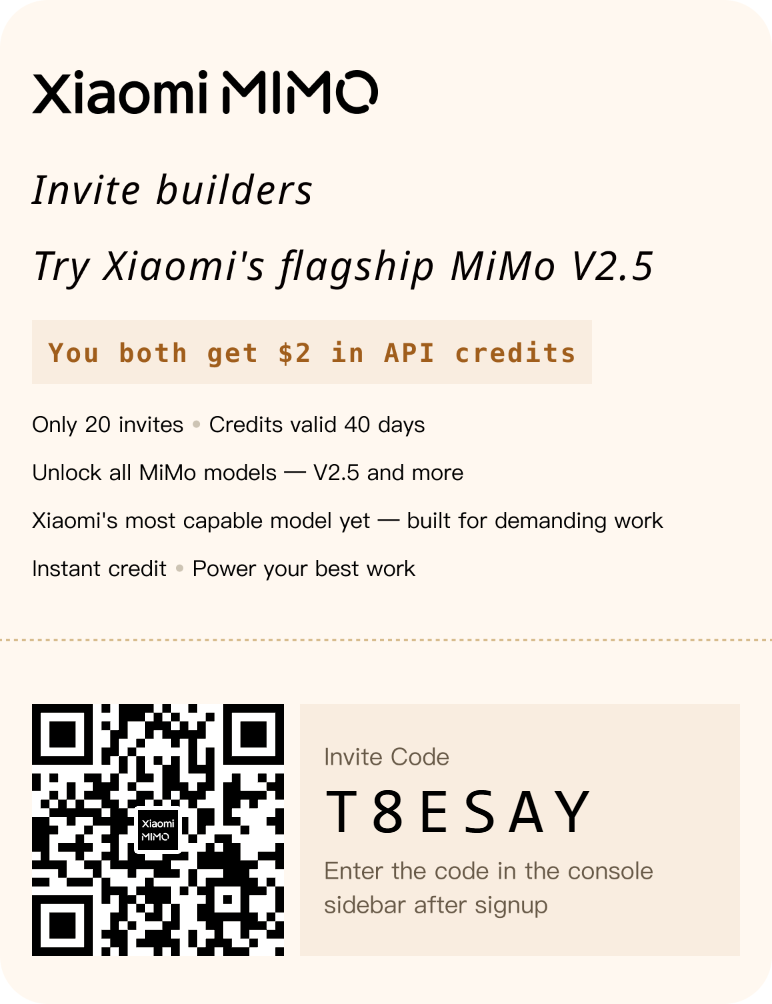
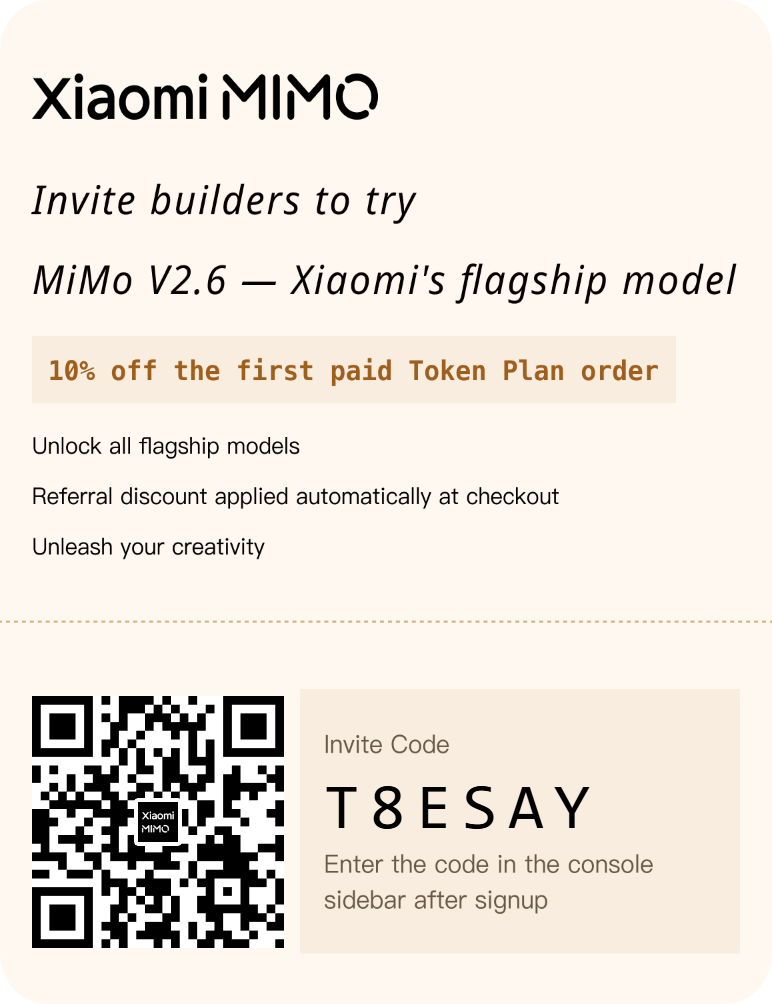
docs(referral): refresh referral terms and add LLM Gateway
Update Synthetic, Xiaomi MiMo, OrcaRouter and Alibaba Cloud to their current terms, drop MiniMax and ModelArk, remove the expired Z.ai promo, and add LLM Gateway.

diff --git a/content/page/referral/index.en.md b/content/page/referral/index.en.md
@@ -42,18 +42,17 @@ Sign up through my referral link: https://www.orcarouter.ai/ref/ref_3976ba42abf3
 
 Referral code: `ref_3976ba42abf37dc55c1d`
 
-**TL;DR — current offers checked Oct 2, 2026 (UTC+7):**
+**TL;DR — current offers checked Nov 20, 2026 (UTC+7):**
 
-- **Tencent Hy4 Preview:** Get a 100% deposit match, up to $200, on top-ups of $20 or more when you join before **Oct 29**. Credit is usable on Hy4 Preview only.
-- **GPT-6 Astra:** Get a 100% deposit match, up to $100, on top-ups of $20 or more before **Oct 5**; a payment card is required and the offer is waitlisted.
+- **Always-free models:** DeepSeek V4.1 Flash, DeepSeek V4 Flash, GLM-5.3-Flash, Tencent Hy4 Preview, Tencent Hy3, plus the `orcarouter/free` router. They need a linked GitHub account with some history, or any paid purchase.
+- **DeepSeek V4.1 Flash:** Get a 100% deposit match, with no cap listed, on top-ups of $20 or more when you enroll by **Dec 18**. Match credit expires Jan 17, 2027.
+- **Fable 5.2:** Get a 100% deposit match, up to about $200, on top-ups of $10 or more when you enroll by **Dec 11**. Match credit expires Jan 10, 2027.
 
 Offers can change quickly, so check the [live offers page](https://www.orcarouter.ai/offers) before claiming.
 
 ### [Z.ai](https://z.ai/subscribe?ic=PLKIAYEIPW)
 
 🚀 You've been invited to join the GLM Coding Plan! Enjoy full support for Claude Code, Cline, and 20+ top coding tools — starting at just $18/month. Subscribe now and grab the limited-time deal! Link： https://z.ai/subscribe?ic=PLKIAYEIPW
-
-Until **Oct 7, 2026**, all-day usage is billed at the off-peak rate, and GLM-5.3-Flash is unlimited from 23:00 to 09:00.
 
 ### [Kimi](https://kimi-bot.com/activities/viral-referral/share?scenario=invite&from=share_poster&invitation_code=C8CJ6F)
 
@@ -64,26 +63,11 @@ Boost me and we both win! Sign up or subscribe to Kimi (Moonshot AI) and we each
 
 Invitation code: `C8CJ6F`
 
-### [MiniMax](https://platform.minimax.io/subscribe/token-plan?code=CAQ5sxHAq6&source=link)
-
-🎁 MiniMax Token Plan Referral Program — Token Plan starts at $20/month (Plus), with Max at $50 and Ultra at $120.
-
-**How it works:**
-
-- **For Referred Users:** Use a referral link to get **10% off** any Token Plan subscription or upgrade, and join the MiniMax Developer Community as a Builder.
-- **For Referrers:** Earn **10% back in API credits** for every successful paid referral, valid for 90 days and usable across all MiniMax models. [View details](https://platform.minimax.io/docs/token-plan/faq)
-
-[![minimax](minimax.png)](https://platform.minimax.io/subscribe/token-plan?code=CAQ5sxHAq6&source=link)
-
-Referral code: `CAQ5sxHAq6`
-
-Link: https://platform.minimax.io/subscribe/token-plan?code=CAQ5sxHAq6&source=link
-
 ### [Synthetic](https://synthetic.new/?referral=CNBFyw28zF0dZoj)
 
 Thanks for helping us grow!
 
-Invite your friends to Synthetic and both of you will receive $10.00 off the first month when they subscribe! Subscriptions start at $30/month, with usage-based pricing as an alternative.
+Invite your friends to Synthetic and when they subscribe, both of you will receive **$10.00** in subscription credit if they choose the Standard plan or higher, or **$3.00** if they choose the Go plan. This discount won't stack with other offers.
 
 Share Your Referral Link
 
@@ -101,38 +85,30 @@ Link: https://portal.nousresearch.com/r/tien-nguyen-minh
 
 ### [Xiaomi MiMo](https://platform.xiaomimimo.com?ref=T8ESAY)
 
-Xiaomi MiMo Open Platform — running Xiaomi's flagship MiMo V2.6 Pro and the rest of the lineup. Sign up with my code and you'll instantly get **$2** in API credits, plus **10% off** your first paid Token Plan order.
+Invite builders to try MiMo V2.6, Xiaomi's flagship model.
 
-Enter the code within 3 days of signing up, at the bottom-left of the console. Credits valid **40 days**.
+- **Friend:** signs up and gets **10% off** their first paid Token Plan order, applied automatically at checkout.
+- **Me:** earns 10% back in credits on that order, valid for 40 days.
 
-Referral code: `T8ESAY`
+Auto-bind via the link, or enter the code in the console sidebar after signup.
+
+Invite code: `T8ESAY`
 
 Link: https://platform.xiaomimimo.com?ref=T8ESAY
 
 [![mimo](mimo.png)](https://platform.xiaomimimo.com?ref=T8ESAY)
 
-### [ModelArk](https://www.byteplus.com/activity/codingplan?ac=MMAUCIS9NT1S&rc=2739UWRE)
+### [LLM Gateway](https://llmgateway.io/?ref=jdsmz02j3nmaB9BqziZt)
 
-BytePlus ModelArk Coding Plan bundles Dola-Seed-2.0-pro, GLM-5.3-Flash, and the DeepSeek V4 series for Claude Code, Cursor, Cline, and other coding tools. Subscribe through my link to get **10% off** your first Coding Plan subscription.
+LLM Gateway is an open-source gateway that routes requests to many LLM providers through one OpenAI- and Anthropic-compatible API. Bring your own keys for free, pay as you go, or pick a **DevPass** plan for coding agents (Lite $29, Pro $79, Max $179 a month), each including twice its price in model usage.
 
-https://www.byteplus.com/activity/codingplan?ac=MMAUCIS9NT1S&rc=2739UWRE
-
-[![modelark](modelark.png)](https://www.byteplus.com/activity/codingplan?ac=MMAUCIS9NT1S&rc=2739UWRE)
-
-## Cloud Computing
+Sign up through my referral link: https://llmgateway.io/?ref=jdsmz02j3nmaB9BqziZt
 
 ### [Alibaba Cloud](https://www.alibabacloud.com/campaign/benefits?referral_code=A92LU5)
 
-Alibaba Cloud is one of the world's largest cloud computing platforms — offering 50+ products including ECS, OSS, RDS, Redis, MongoDB, and networking.
+Alibaba Cloud Model Studio gives one-stop access to the full Qwen series and leading third-party LLMs through OpenAI-compatible APIs, with multimodal support. Its **Token Plan** bundles Qwen and third-party models such as DeepSeek and GLM for coding tools in one monthly subscription.
 
-**New user benefits (via referral):**
-
-- Up to **$1,700** in free trial credits (individual) or **$8,500** (enterprise)
-- **12-month free** ECS (Elastic Compute Service) trial
-- **50+** products available in free trial
-- New-user coupons and discounts on first orders
-
-**How it works:** Sign up via the referral link as a new user → complete identity verification → access free trials and promotions.
+Sign up via the referral link as a new user to try Model Studio and Token Plan.
 
 Referral code: `A92LU5`
 

diff --git a/content/page/referral/index.md b/content/page/referral/index.md
@@ -42,18 +42,17 @@ Sign up through my referral link: https://www.orcarouter.ai/ref/ref_3976ba42abf3
 
 Referral code: `ref_3976ba42abf37dc55c1d`
 
-**TL;DR — current offers checked Oct 2, 2026 (UTC+7):**
+**TL;DR — current offers checked Nov 20, 2026 (UTC+7):**
 
-- **Tencent Hy4 Preview:** Get a 100% deposit match, up to $200, on top-ups of $20 or more when you join before **Oct 29**. Credit is usable on Hy4 Preview only.
-- **GPT-6 Astra:** Get a 100% deposit match, up to $100, on top-ups of $20 or more before **Oct 5**; a payment card is required and the offer is waitlisted.
+- **Always-free models:** DeepSeek V4.1 Flash, DeepSeek V4 Flash, GLM-5.3-Flash, Tencent Hy4 Preview, Tencent Hy3, plus the `orcarouter/free` router. They need a linked GitHub account with some history, or any paid purchase.
+- **DeepSeek V4.1 Flash:** Get a 100% deposit match, with no cap listed, on top-ups of $20 or more when you enroll by **Dec 18**. Match credit expires Jan 17, 2027.
+- **Fable 5.2:** Get a 100% deposit match, up to about $200, on top-ups of $10 or more when you enroll by **Dec 11**. Match credit expires Jan 10, 2027.
 
 Offers can change quickly, so check the [live offers page](https://www.orcarouter.ai/offers) before claiming.
 
 ### [Z.ai](https://z.ai/subscribe?ic=PLKIAYEIPW)
 
 🚀 You've been invited to join the GLM Coding Plan! Enjoy full support for Claude Code, Cline, and 20+ top coding tools — starting at just $18/month. Subscribe now and grab the limited-time deal! Link： https://z.ai/subscribe?ic=PLKIAYEIPW
-
-Until **Oct 7, 2026**, all-day usage is billed at the off-peak rate, and GLM-5.3-Flash is unlimited from 23:00 to 09:00.
 
 ### [Kimi](https://kimi-bot.com/activities/viral-referral/share?scenario=invite&from=share_poster&invitation_code=C8CJ6F)
 
@@ -64,26 +63,11 @@ Boost me and we both win! Sign up or subscribe to Kimi (Moonshot AI) and we each
 
 Invitation code: `C8CJ6F`
 
-### [MiniMax](https://platform.minimax.io/subscribe/token-plan?code=CAQ5sxHAq6&source=link)
-
-🎁 MiniMax Token Plan Referral Program — Token Plan starts at $20/month (Plus), with Max at $50 and Ultra at $120.
-
-**How it works:**
-
-- **For Referred Users:** Use a referral link to get **10% off** any Token Plan subscription or upgrade, and join the MiniMax Developer Community as a Builder.
-- **For Referrers:** Earn **10% back in API credits** for every successful paid referral, valid for 90 days and usable across all MiniMax models. [View details](https://platform.minimax.io/docs/token-plan/faq)
-
-[![minimax](minimax.png)](https://platform.minimax.io/subscribe/token-plan?code=CAQ5sxHAq6&source=link)
-
-Referral code: `CAQ5sxHAq6`
-
-Link: https://platform.minimax.io/subscribe/token-plan?code=CAQ5sxHAq6&source=link
-
 ### [Synthetic](https://synthetic.new/?referral=CNBFyw28zF0dZoj)
 
 Thanks for helping us grow!
 
-Invite your friends to Synthetic and both of you will receive $10.00 off the first month when they subscribe! Subscriptions start at $30/month, with usage-based pricing as an alternative.
+Invite your friends to Synthetic and when they subscribe, both of you will receive **$10.00** in subscription credit if they choose the Standard plan or higher, or **$3.00** if they choose the Go plan. This discount won't stack with other offers.
 
 Share Your Referral Link
 
@@ -101,38 +85,30 @@ Link: https://portal.nousresearch.com/r/tien-nguyen-minh
 
 ### [Xiaomi MiMo](https://platform.xiaomimimo.com?ref=T8ESAY)
 
-Xiaomi MiMo Open Platform — running Xiaomi's flagship MiMo V2.6 Pro and the rest of the lineup. Sign up with my code and you'll instantly get **$2** in API credits, plus **10% off** your first paid Token Plan order.
+Invite builders to try MiMo V2.6, Xiaomi's flagship model.
 
-Enter the code within 3 days of signing up, at the bottom-left of the console. Credits valid **40 days**.
+- **Friend:** signs up and gets **10% off** their first paid Token Plan order, applied automatically at checkout.
+- **Me:** earns 10% back in credits on that order, valid for 40 days.
 
-Referral code: `T8ESAY`
+Auto-bind via the link, or enter the code in the console sidebar after signup.
+
+Invite code: `T8ESAY`
 
 Link: https://platform.xiaomimimo.com?ref=T8ESAY
 
 [![mimo](mimo.png)](https://platform.xiaomimimo.com?ref=T8ESAY)
 
-### [ModelArk](https://www.byteplus.com/activity/codingplan?ac=MMAUCIS9NT1S&rc=2739UWRE)
+### [LLM Gateway](https://llmgateway.io/?ref=jdsmz02j3nmaB9BqziZt)
 
-BytePlus ModelArk Coding Plan bundles Dola-Seed-2.0-pro, GLM-5.3-Flash, and the DeepSeek V4 series for Claude Code, Cursor, Cline, and other coding tools. Subscribe through my link to get **10% off** your first Coding Plan subscription.
+LLM Gateway is an open-source gateway that routes requests to many LLM providers through one OpenAI- and Anthropic-compatible API. Bring your own keys for free, pay as you go, or pick a **DevPass** plan for coding agents (Lite $29, Pro $79, Max $179 a month), each including twice its price in model usage.
 
-https://www.byteplus.com/activity/codingplan?ac=MMAUCIS9NT1S&rc=2739UWRE
-
-[![modelark](modelark.png)](https://www.byteplus.com/activity/codingplan?ac=MMAUCIS9NT1S&rc=2739UWRE)
-
-## Cloud Computing
+Sign up through my referral link: https://llmgateway.io/?ref=jdsmz02j3nmaB9BqziZt
 
 ### [Alibaba Cloud](https://www.alibabacloud.com/campaign/benefits?referral_code=A92LU5)
 
-Alibaba Cloud is one of the world's largest cloud computing platforms — offering 50+ products including ECS, OSS, RDS, Redis, MongoDB, and networking.
+Alibaba Cloud Model Studio gives one-stop access to the full Qwen series and leading third-party LLMs through OpenAI-compatible APIs, with multimodal support. Its **Token Plan** bundles Qwen and third-party models such as DeepSeek and GLM for coding tools in one monthly subscription.
 
-**New user benefits (via referral):**
-
-- Up to **$1,700** in free trial credits (individual) or **$8,500** (enterprise)
-- **12-month free** ECS (Elastic Compute Service) trial
-- **50+** products available in free trial
-- New-user coupons and discounts on first orders
-
-**How it works:** Sign up via the referral link as a new user → complete identity verification → access free trials and promotions.
+Sign up via the referral link as a new user to try Model Studio and Token Plan.
 
 Referral code: `A92LU5`
 
